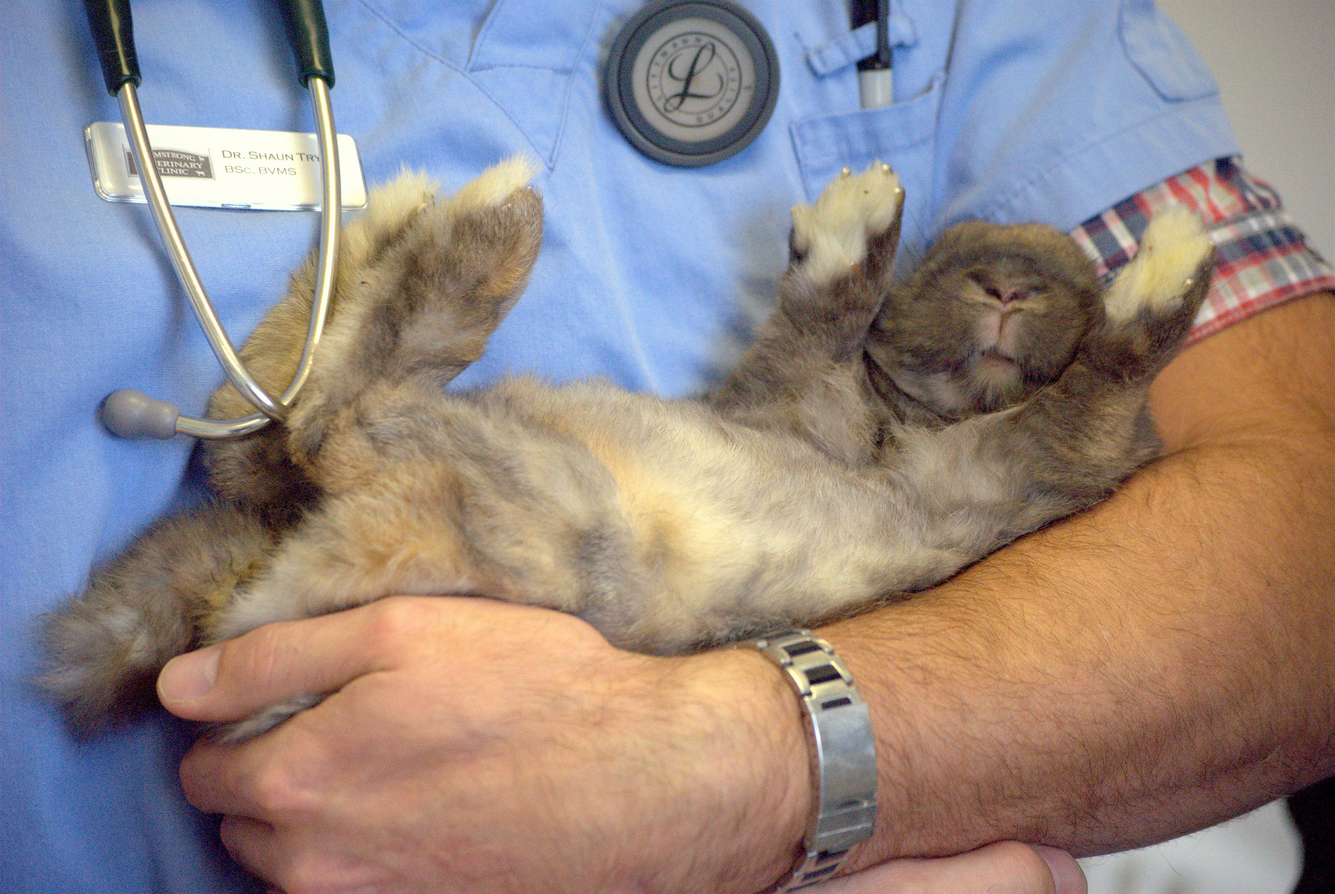
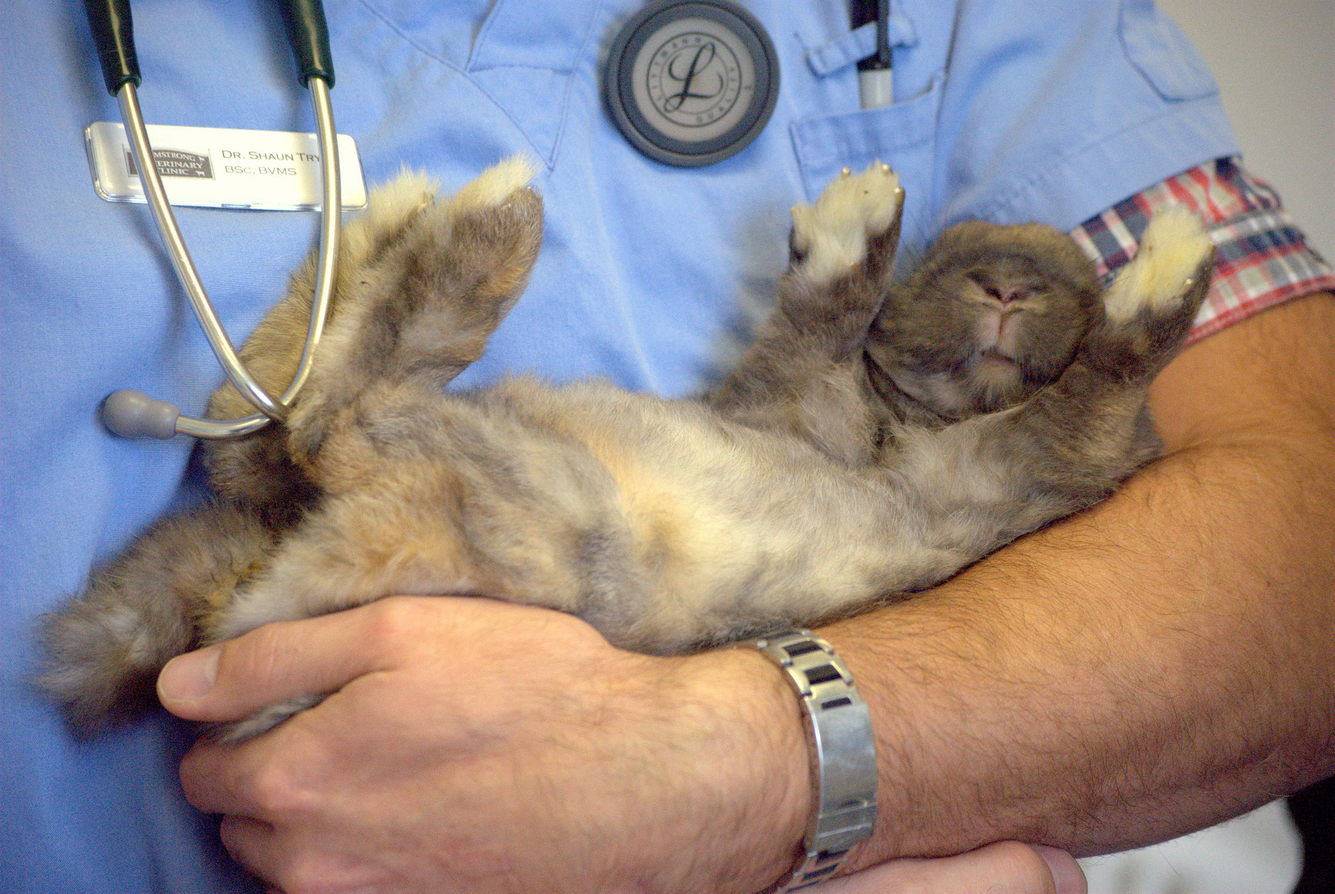
adding mobile viewport meta
removed unused background colors
hero background is now a bunny

diff --git a/css/main.css b/css/main.css
@@ -10,7 +10,7 @@ header {
 	font-family: 'Montserrat', sans-serif;
 }
 header#splash {
-	background-image: url("../images/cat-getting-care.jpg");
+	background-image: url("../images/bunny-in-color.jpg");
 	background-size: cover;
 	background-repeat: no-repeat;
 	background-attachment: fixed;
@@ -25,7 +25,6 @@ div.container {
 }
 section#title {
 	margin: 20% auto 0 auto;
-	background-color: rgba(0,0,0,0);
 }
 section.main {
 	margin: 2em;
@@ -38,7 +37,6 @@ section.newPatients {
 	display: flex;
 	flex-flow: row nowrap;
 	justify-content: space-between;
-	background-color: rgba(255,255,255,0);
 }
 section.services div {
 	display: flex;
@@ -55,7 +53,6 @@ section.contactUs {
 	display: flex;
 	flex-flow: row nowrap;
 	justify-content: space-between;
-	background-color: rgba(255,255,255,0);
 }
 h1 {
 	margin: .5em auto .25em auto;

diff --git a/patients.html b/patients.html
@@ -2,6 +2,7 @@
 <html>
 <head>
 	<meta charset="UTF-8">
+	<meta name="viewport" content="width=device-width, initial-scale=1">
 	<title>New Patients Considering Mill Pond Animal Hospital</title>
 	<link rel="stylesheet" type="text/css" href="css/main.css">
 	<link href='https://fonts.googleapis.com/css?family=Libre+Baskerville:400,700|Montserrat:400,700' rel='stylesheet' type='text/css'>

diff --git a/services.html b/services.html
@@ -2,6 +2,7 @@
 <html>
 <head>
 	<meta charset="UTF-8">
+	<meta name="viewport" content="width=device-width, initial-scale=1">
 	<title>Services at Mill Pond Animal Hospital</title>
 	<link rel="stylesheet" type="text/css" href="css/main.css">
 	<link href='https://fonts.googleapis.com/css?family=Libre+Baskerville:400,700|Montserrat:400,700' rel='stylesheet' type='text/css'>

diff --git a/about.html b/about.html
@@ -2,6 +2,7 @@
 <html>
 <head>
 	<meta charset="UTF-8">
+	<meta name="viewport" content="width=device-width, initial-scale=1">
 	<title>About Mill Pond Animal Hospital</title>
 	<link rel="stylesheet" type="text/css" href="css/main.css">
 	<link href='https://fonts.googleapis.com/css?family=Libre+Baskerville:400,700|Montserrat:400,700' rel='stylesheet' type='text/css'>

diff --git a/index.html b/index.html
@@ -2,6 +2,7 @@
 <html>
 <head>
 	<meta charset="UTF-8">
+	<meta name="viewport" content="width=device-width, initial-scale=1">
 	<title>Mill Pond Animal Hospital</title>
 	<link rel="stylesheet" type="text/css" href="css/main.css">
 	<link href='https://fonts.googleapis.com/css?family=Libre+Baskerville:400,700|Montserrat:400,700' rel='stylesheet' type='text/css'>
